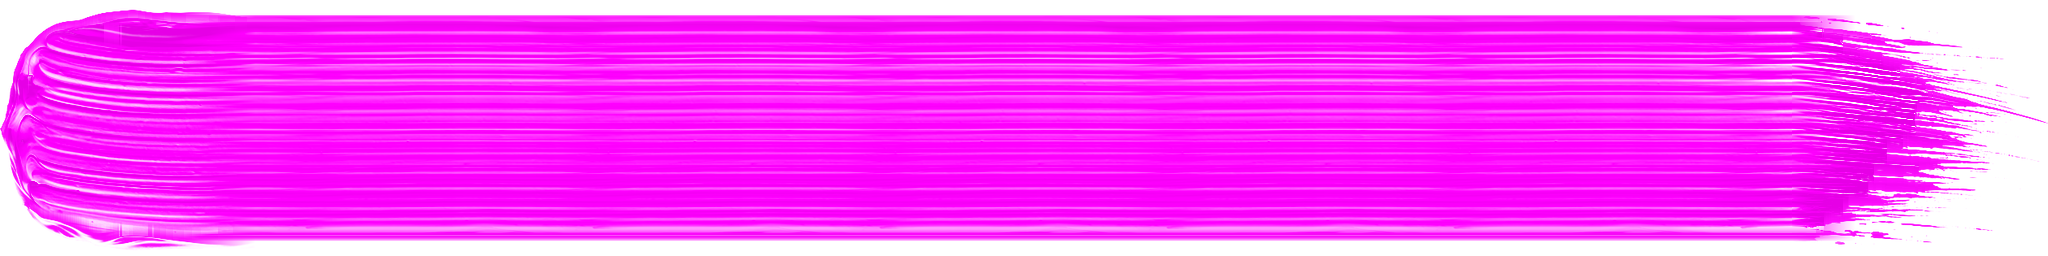
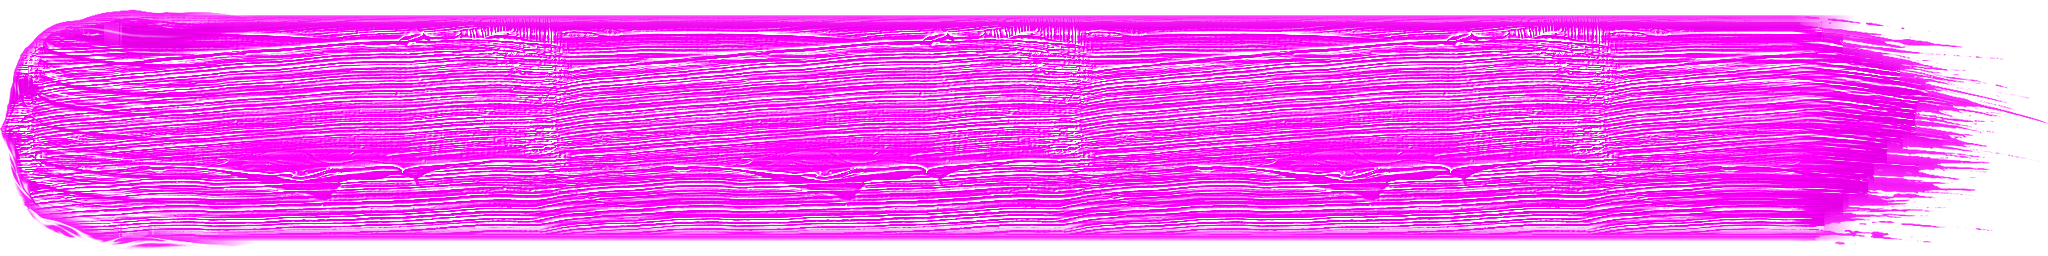
fix(oil): Firefly 고운 캔버스(퀼팅 무이음 타일)·물감 이랑 질감
- 캔버스: Firefly canvasfine + 조명 제거 + 최소 오차 경계 퀼팅(경로 둘레 섞기) — 가로 점선·얼룩·십자 이음매 제거, 세기 0.6·하이라이트 0.4
- 납작붓 띠: Firefly paint3d 붓털 이랑(σ3px 고역, 가로 무이음)을 몸통에 0.28 — 물감이 쌓인 표면
- texture_lib: periodic_component·quilt_tile 추가

diff --git a/src/engine/ArtEngine.ts b/src/engine/ArtEngine.ts
@@ -24,7 +24,7 @@ import { smearSegment } from "./tools/SmudgeTool";
 import { drawPaperRelief, drawPaperTint, onPaperReliefLoad, type PaperKind } from "./core/paper";
 
 /** 캔버스 요철 soft-light 세기(0~1) — 아트봉봉 화면과 나란히 보고 맞춘 값(2026-10-08) */
-const PAPER_RELIEF_STRENGTH = 0.8; // 0.6 → 0.42: 2026-10-08 사용자 «캔버스 굴곡을 줄여보자»
+const PAPER_RELIEF_STRENGTH = 0.6; // 아트봉봉 화면과 같은 배율로 나란히 맞춘 값(2026-10-08)
 import { tilesForRect, copyTiles, readTiles, TileSnapshotCommand, type TileRect } from "./core/tiles";
 import type { Layer } from "./core/LayerStack";
 import { BrushBase, createBrush, MIN_DAB_PX, STROKE_BRUSHES } from "./brushes";

diff --git a/src/engine/core/paper.ts b/src/engine/core/paper.ts
@@ -447,7 +447,7 @@ export function drawPaperRelief(
   ctx.fillStyle = r.shadow;
   ctx.fillRect(0, 0, width, height);
   ctx.globalCompositeOperation = "source-over";
-  ctx.globalAlpha = strength * 0.55;
+  ctx.globalAlpha = strength * 0.4;
   ctx.fillStyle = r.hi;
   ctx.fillRect(0, 0, width, height);
   ctx.restore();

diff --git a/scripts/process-relief.py b/scripts/process-relief.py
@@ -23,16 +23,17 @@ from PIL import Image
 from PIL.PngImagePlugin import PngInfo
 
 sys.path.insert(0, str(Path(__file__).parent))
-from texture_lib import fft_highpass, make_seamless, resize_area, seam_ratio, to_gray  # noqa: E402
+from texture_lib import fft_highpass, quilt_tile, resize_area, seam_ratio, to_gray  # noqa: E402
 
 ROOT = Path(__file__).resolve().parent.parent
-# 비스듬한 빛(레이킹 라이트)으로 뽑은 젯소 캔버스 — 평평한 조명 사진(firefly-linen-1)은 요철 음영이 약하고
-# 가로 실만 두드러졌다(2026-10-08 사용자 «파이어플라이로 3D 느낌으로 뽑으면?» → 맞는 지적)
-SRC = ROOT / "assets-src/textures/sources/firefly-canvas3d.png"
+# 젯소로 메운 고운 캔버스(Firefly canvasfine) — 아트봉봉 캔버스처럼 고르고 부드러운 결.
+# 레이킹 라이트 canvas3d 는 가로 실 줄이 강해 «가로 점선·얼룩»으로 보였다(2026-10-08 사용자 «기본 캔버스가 얼룩덜룩»)
+SRC = ROOT / "assets-src/textures/sources/firefly-canvasfine.png"
 OUT = ROOT / "public/textures/paper-linen-relief.png"
 PROV = ROOT / "assets-src/textures/PROVENANCE-relief.json"
 SIZE = 256  # 타일(캔버스 px)
-CROP = 896  # 원본 세로 전체 — 직조 칸 ≈30px → 타일 ≈8.5px. 512 는 결이 굵다(2026-10-08 사용자 «캔버스 점을 촘촘하게»)
+CROP = 384  # 원본 384px → 타일 256(결 ≈ 아트봉봉 화면과 같은 크기 — 시뮬 나란히 비교)
+OV = 64  # 퀼팅 겹침
 AMP = 52  # 128 ± AMP·(표준편차 단위) — 엔진의 soft-light 세기는 globalAlpha 로 따로 조절
 
 
@@ -40,15 +41,21 @@ def main() -> int:
     src = np.asarray(Image.open(SRC).convert("RGB"))
     g = to_gray(src)
     h, w = g.shape
-    y0 = (h - CROP) // 2
-    x0 = (w - CROP) // 2
-    t = resize_area(g[y0 : y0 + CROP, x0 : x0 + CROP], SIZE)
-    t = fft_highpass(make_seamless(t), 3)  # 조명 기울기·얼룩(타일당 3주기 이하) 제거
-    # 실 보풀 같은 1~2px 잔결을 살짝 눌러 부드러운 천 요철로(아트봉봉 결은 둥글다)
+    # 조명(σ≈12px 넘는 저주파) 제거 — 남겨 두면 퀼팅 경계가 밝기 단차 선으로 보였다
+    F = np.fft.fft2(g)
+    fy = np.fft.fftfreq(h)[:, None]
+    fx = np.fft.fftfreq(w)[None, :]
+    g = g - np.real(np.fft.ifft2(F * np.exp(-(fx**2 + fy**2) * (2 * np.pi * 12) ** 2 / 2)))
+    n = CROP + OV
+    y0 = (h - n) // 2
+    x0 = (w - n) // 2
+    # 최소 오차 경계 퀼팅 + 경로 둘레 섞기 — 반 타일 크로스페이드는 고운 직조에서 십자 띠, 딱 자르면 점선
+    t = resize_area(quilt_tile(g[y0 : y0 + n, x0 : x0 + n], CROP), SIZE)
+    t = fft_highpass(t, 3)
     F = np.fft.fft2(t)
     fy = np.fft.fftfreq(SIZE)[:, None]
     fx = np.fft.fftfreq(SIZE)[None, :]
-    t = np.real(np.fft.ifft2(F * np.exp(-(fx**2 + fy**2) / (2 * 0.16**2))))
+    t = np.real(np.fft.ifft2(F * np.exp(-(fx**2 + fy**2) / (2 * 0.07**2))))  # 아트봉봉 결은 부드럽다(0.09 는 날카로웠다)
     t = (t - t.mean()) / max(1e-6, t.std())
     v = np.clip(128 + t * AMP, 0, 255).round().astype(np.uint8)
     seam = seam_ratio(v.astype(np.float64))
@@ -75,6 +82,7 @@ def main() -> int:
                 "source": str(SRC.relative_to(ROOT)),
                 "content_credentials": m.group(1) if m else None,
                 "crop": CROP,
+                "overlap": OV,
                 "size": SIZE,
                 "amp": AMP,
                 "seam_ratio": round(float(seam), 3),

diff --git a/scripts/process-ribbon.py b/scripts/process-ribbon.py
@@ -24,6 +24,33 @@ import numpy as np
 from PIL import Image
 from PIL.PngImagePlugin import PngInfo
 
+sys.path.insert(0, str(Path(__file__).parent))
+from texture_lib import _quilt_wrap_x, to_gray  # noqa: E402
+
+# 물감 표면(붓털 이랑) — Firefly 레이킹 라이트 임파스토 사진. 띠 전체에 깔아 «물감이 쌓인» 질감을 낸다
+# (2026-10-08 사용자 «물감도 파이어플라이로 쌓이는 질감 표현 못하나?»)
+PAINT_SRC = Path(__file__).resolve().parent.parent / "assets-src/textures/sources/firefly-paint3d.png"
+PAINT = 0.28  # dev 단위 세기
+
+
+def paint_layer(width: int, height: int) -> np.ndarray:
+    """(height, width) 가로 반복 물감 이랑 — 평균 0, 표준편차 1"""
+    g = to_gray(np.asarray(Image.open(PAINT_SRC).convert("RGB")))
+    g = g[380:, :]  # 위쪽의 붓 그림 제외
+    h, w = g.shape
+    F = np.fft.fft2(g)
+    fy = np.fft.fftfreq(h)[:, None]
+    fx = np.fft.fftfreq(w)[None, :]
+    g = g - np.real(np.fft.ifft2(F * np.exp(-(fx**2 + fy**2) * (2 * np.pi * 3) ** 2 / 2)))  # 조명·큰 굴곡 제거(σ 3px) — 큰 이랑은 띠에서 반복 무늬로 보였다
+    k = height / h  # 사진 세로 전체 → 띠 높이
+    seg = _quilt_wrap_x(g, w - 96)  # 가로 이음매 없이
+    t = np.asarray(
+        Image.fromarray(seg.astype(np.float32), mode="F").resize((round(seg.shape[1] * k), height), Image.Resampling.BOX)
+    )
+    t = (t - t.mean()) / max(1e-6, t.std())
+    reps = int(np.ceil(width / t.shape[1]))
+    return np.tile(t, (1, reps))[:, :width]
+
 ROOT = Path(__file__).resolve().parent.parent
 SRC_DIR = ROOT / "assets-src" / "textures"
 OUT = ROOT / "public" / "brush-tips" / "oil-ribbon.png"
@@ -141,6 +168,8 @@ def build(src_path: Path):
     xs = np.arange(dev.shape[1])[None, :]
     tail_w = np.clip((xs - (END[0] - 120)) / 240, 0, 1)  # 끝 구간 앞 120px 부터 서서히
     dev = dev * (BODY_STREAK + (1 - BODY_STREAK) * tail_w)
+    pl = paint_layer(dev.shape[1], dev.shape[0])
+    dev = dev + PAINT * pl * (1 - tail_w)
     # 테두리는 물감색 그대로(밝게) — 원본 사진은 가장자리가 그늘져 획 둘레에 검은 테가 돌았다
     # (2026-10-08 사용자 «테두리가 검은 빛, 아트봉봉은 흰빛»). 알파 경계에서 18줄 안쪽까지 셰이드를 1로 올린다.
     lift = edge_lift(A)
@@ -162,6 +191,7 @@ def build(src_path: Path):
     for e in edges[1:-1]:
         groove += np.exp(-((yy - e) ** 2) / (2 * 3.0**2))  # 가닥 사이 골
     dev_b = np.repeat(0.22 * levels[band_of] - 0.25 * groove, L.shape[1], 1) * BODY_STREAK * 1.5
+    dev_b = dev_b + PAINT * 0.8 * pl * (1 - tail_w)  # 가는 띠도 같은 물감 이랑(축소되면 평균되지만 큰 이랑은 남는다)
     # 가는 획: 테두리 흰 테 없이(rim 0) 가장자리 골만 지운다(12줄). 56줄 + 흰 테는 어두운 색에서
     # «가운데 검은 줄 + 바깥 흰 줄» 두 겹으로 갈라져 보였다(2026-10-08 사용자 ×3 확대 지적)
     lift_b = edge_lift(A, rows=12)

diff --git a/scripts/texture_lib.py b/scripts/texture_lib.py
@@ -150,3 +150,58 @@ def patch_heterogeneity(tile: np.ndarray, patch: int = 32) -> tuple[float, float
     means = t.mean(axis=(1, 3))
     stds = t.std(axis=(1, 3))
     return float(np.abs(means - tile.mean()).max() / tile.std()), float(stds.std() / stds.mean())
+
+
+def periodic_component(img: np.ndarray) -> np.ndarray:
+    """Moisan 주기+평활 분해의 주기 성분 — 크로스페이드 없이 이음매를 없앤다.
+    make_seamless(반 타일 크로스페이드)는 결이 고운 사진에서 십자 띠가 보였다(2026-10-08 canvasfine 실측)."""
+    u = img.astype(np.float64)
+    m, n = u.shape
+    v = np.zeros_like(u)
+    v[0, :] += u[-1, :] - u[0, :]
+    v[-1, :] += u[0, :] - u[-1, :]
+    v[:, 0] += u[:, -1] - u[:, 0]
+    v[:, -1] += u[:, 0] - u[:, -1]
+    q = np.arange(m)[:, None]
+    r = np.arange(n)[None, :]
+    den = 2 * np.cos(2 * np.pi * q / m) + 2 * np.cos(2 * np.pi * r / n) - 4
+    den[0, 0] = 1
+    S = np.fft.fft2(v) / den
+    S[0, 0] = 0
+    return u - np.real(np.fft.ifft2(S))
+
+
+def _quilt_wrap_x(C: np.ndarray, n: int) -> np.ndarray:
+    """가로 이음매 — C(폭 n+ov)의 오른쪽 넘침 A 와 왼쪽 시작 B 를 최소 오차 경로(DP)로 잘라 붙인다.
+    결과(폭 n)의 오른쪽 끝 → 왼쪽 끝이 원본에서 실제로 이웃한 픽셀이 되어 무늬 위상까지 이어진다."""
+    ov = C.shape[1] - n
+    A = C[:, n:]
+    B = C[:, :ov]
+    E = (A - B) ** 2
+    h = E.shape[0]
+    cost = E.copy()
+    back = np.zeros(E.shape, dtype=int)
+    for y in range(1, h):
+        for x in range(ov):
+            lo, hi = max(0, x - 1), min(ov, x + 2)
+            k = lo + int(np.argmin(cost[y - 1, lo:hi]))
+            back[y, x] = k
+            cost[y, x] += cost[y - 1, k]
+    out = C[:, :n].copy()
+    cut = np.zeros(h, dtype=int)
+    x = int(np.argmin(cost[-1]))
+    for y in range(h - 1, -1, -1):
+        cut[y] = x
+        x = back[y, x]
+    # 경로 왼쪽 = 넘침(끝에서 이어짐), 오른쪽 = 원래 시작. 경로 둘레 ±feather px 는 섞는다 —
+    # 딱 자르면 경로가 실을 끊어 밝은 점선이 보였다(2026-10-08 canvasfine 시뮬)
+    feather = max(2, ov // 8)
+    xs = np.arange(ov)[None, :]
+    wA = np.clip((cut[:, None] - xs) / (2 * feather) + 0.5, 0, 1)
+    out[:, :ov] = A * wA + B * (1 - wA)
+    return out
+
+
+def quilt_tile(C: np.ndarray, n: int) -> np.ndarray:
+    """(n+ov)² 크롭 → 이음매 없는 n² 타일(가로·세로 최소 오차 경계)."""
+    return _quilt_wrap_x(_quilt_wrap_x(C, n).T, n).T
